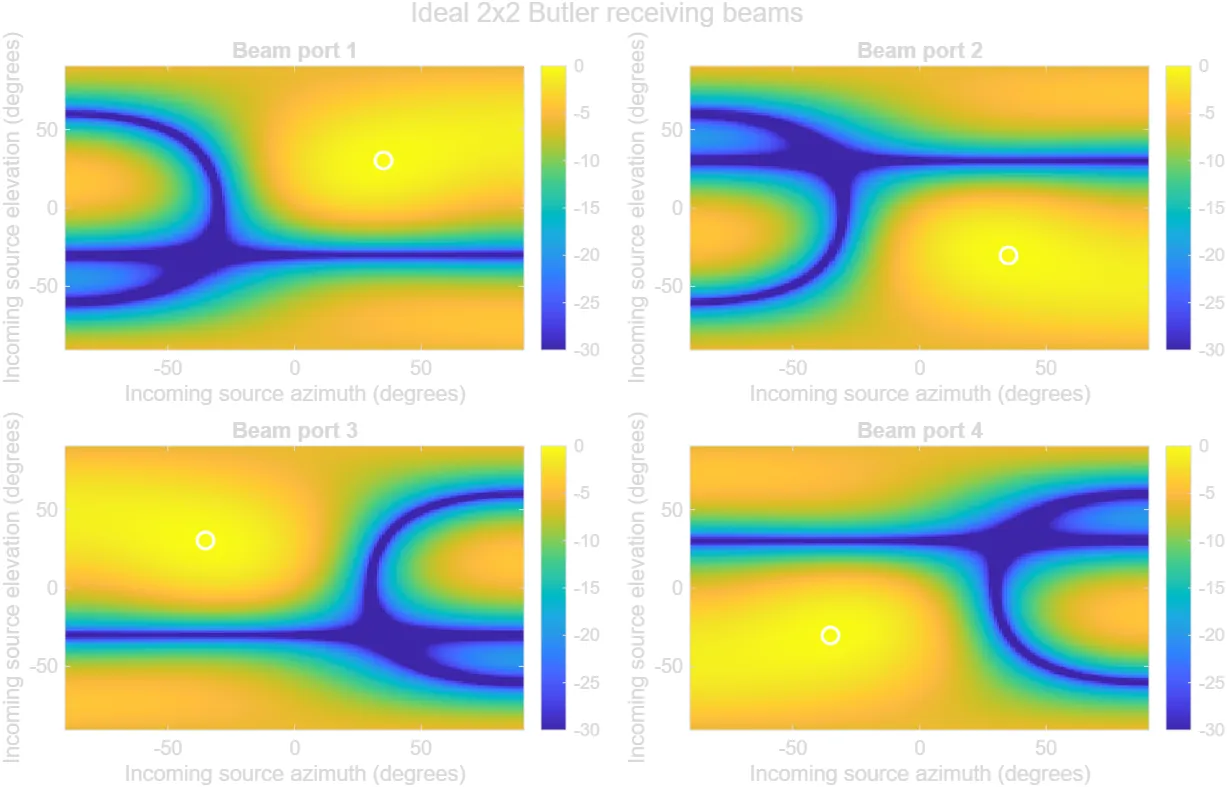
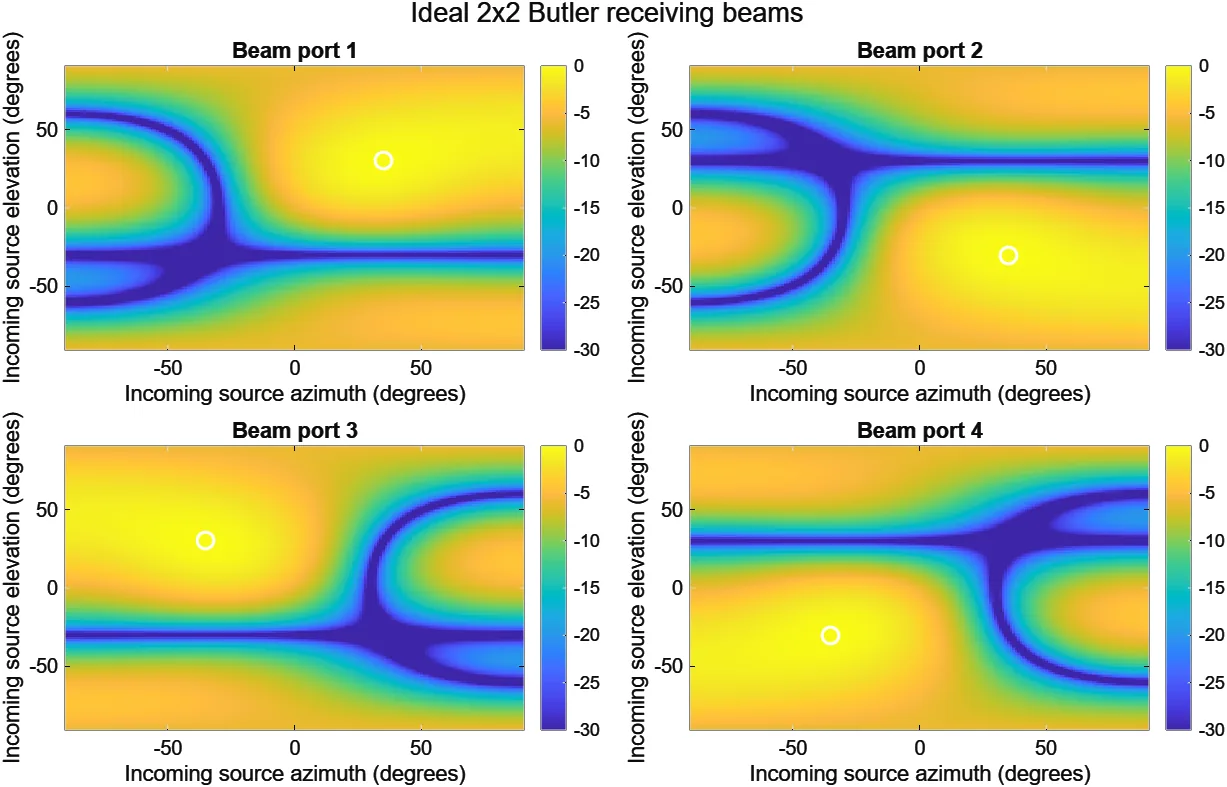
Redesign review 2 fixes: card links, real Parity numbers, honest roles
- Web design cards: the picture and title open the project page; the Flip button still turns the card.
  Keyboard focus turns a card at once, so focus never sits on the hidden face.
- Research: the placeholder Parity charts are replaced by the real results so far. The side menu lists all four projects.
- NEXUS: role says I wrote the server (all 147 commits), not the dashboard.
- Detail Theory and Argus Dashboard: "Developer", not "Lead developer".
- endyland hosting: dropped the 30-day uptime stat.
- Butler matrix plot re-exported with dark text.
- Projects tab no longer says "on my own".
- Hints about moving shapes and the live beam hide when motion or 3D is off.
- Argus: last number spans its row; smaller hero image for phones.
- RION gallery: added the phone view of the site.
- README no longer names other addresses on the domain.

diff --git a/research/index.html b/research/index.html
@@ -50,6 +50,8 @@
     <li><a href="#main"><span class="tb-ch" aria-hidden="true">T0</span> Top</a></li>
     <li><a href="#rf-direction-finder"><span class="tb-ch" aria-hidden="true">CH1</span> RF</a></li>
     <li><a href="#parity"><span class="tb-ch" aria-hidden="true">CH2</span> Parity</a></li>
+    <li><a href="#dfw-rent-model"><span class="tb-ch" aria-hidden="true">CH3</span> Rents</a></li>
+    <li><a href="#spending-explorer"><span class="tb-ch" aria-hidden="true">CH4</span> Spending</a></li>
   </ol>
 </nav>
 
@@ -129,21 +131,14 @@
         </div>
       </div>
       <div class="ch-inst">
-        <figure class="inst plot plot-par rv">
-          <svg class="plot-svg" viewBox="0 0 400 200" aria-hidden="true" focusable="false">
-            <line class="gr" x1="44" x2="388" y1="16.0" y2="16.0"/><line class="gr" x1="44" x2="388" y1="57.0" y2="57.0"/><line class="gr" x1="44" x2="388" y1="98.0" y2="98.0"/><line class="gr" x1="44" x2="388" y1="139.0" y2="139.0"/><line class="gr" x1="44" x2="388" y1="180.0" y2="180.0"/><line class="gr" x1="44.0" x2="44.0" y1="16" y2="180"/><line class="gr" x1="101.3" x2="101.3" y1="16" y2="180"/><line class="gr" x1="158.7" x2="158.7" y1="16" y2="180"/><line class="gr" x1="216.0" x2="216.0" y1="16" y2="180"/><line class="gr" x1="273.3" x2="273.3" y1="16" y2="180"/><line class="gr" x1="330.7" x2="330.7" y1="16" y2="180"/><line class="gr" x1="388.0" x2="388.0" y1="16" y2="180"/>
-            <path class="tr tr-b" pathLength="1" d="M44.0 156.8L46.9 153.2L49.7 149.8L52.6 146.7L55.5 144.1L58.3 142.0L61.2 140.5L64.1 139.6L66.9 139.3L69.8 139.6L72.7 140.4L75.5 141.7L78.4 143.3L81.3 145.1L84.1 147.1L87.0 149.1L89.9 150.9L92.7 152.6L95.6 153.9L98.5 155.0L101.3 155.6L104.2 155.8L107.1 155.6L109.9 155.0L112.8 154.2L115.7 153.1L118.5 151.9L121.4 150.6L124.3 149.5L127.1 148.4L130.0 147.6L132.9 147.1L135.7 146.9L138.6 147.1L141.5 147.6L144.3 148.4L147.2 149.5L150.1 150.7L152.9 152.0L155.8 153.2L158.7 154.3L161.5 155.2L164.4 155.6L167.3 155.7L170.1 155.2L173.0 154.1L175.9 152.4L178.7 150.2L181.6 147.3L184.5 144.0L187.3 140.3L190.2 136.3L193.1 132.1L195.9 127.8L198.8 123.5L201.7 119.5L204.5 115.6L207.4 112.2L210.3 109.1L213.1 106.6L216.0 104.5L218.9 102.8L221.7 101.6L224.6 100.7L227.5 100.1L230.3 99.8L233.2 99.5L236.1 99.2L238.9 98.8L241.8 98.2L244.7 97.4L247.5 96.3L250.4 94.8L253.3 93.1L256.1 91.1L259.0 88.8L261.9 86.5L264.7 84.0L267.6 81.6L270.5 79.3L273.3 77.3L276.2 75.6L279.1 74.4L281.9 73.6L284.8 73.4L287.7 73.8L290.5 74.7L293.4 76.1L296.3 77.9L299.1 80.1L302.0 82.5L304.9 85.1L307.7 87.7L310.6 90.2L313.5 92.5L316.3 94.4L319.2 95.9L322.1 96.9L324.9 97.4L327.8 97.4L330.7 96.8L333.5 95.8L336.4 94.3L339.3 92.6L342.1 90.5L345.0 88.4L347.9 86.2L350.7 84.1L353.6 82.1L356.5 80.4L359.3 78.9L362.2 77.8L365.1 76.9L367.9 76.3L370.8 76.0L373.7 75.8L376.5 75.8L379.4 75.7L382.3 75.5L385.1 75.0L388.0 74.3"/>
-            <path class="tr tr-a" pathLength="1" d="M44.0 172.0L46.9 164.2L49.7 157.0L52.6 150.7L55.5 145.8L58.3 142.4L61.2 140.6L64.1 140.3L66.9 141.1L69.8 142.7L72.7 144.7L75.5 146.6L78.4 148.0L81.3 148.8L84.1 148.7L87.0 147.9L89.9 146.5L92.7 144.7L95.6 143.0L98.5 141.8L101.3 141.5L104.2 142.3L107.1 144.4L109.9 147.7L112.8 152.2L115.7 157.5L118.5 163.1L121.4 168.6L124.3 173.5L127.1 177.2L130.0 179.5L132.9 180.0L135.7 178.8L138.6 175.9L141.5 171.6L144.3 166.4L147.2 160.6L150.1 154.7L152.9 149.3L155.8 144.5L158.7 140.7L161.5 137.8L164.4 135.7L167.3 134.3L170.1 133.1L173.0 131.8L175.9 130.0L178.7 127.4L181.6 123.8L184.5 119.1L187.3 113.5L190.2 107.2L193.1 100.6L195.9 94.1L198.8 88.3L201.7 83.6L204.5 80.3L207.4 78.7L210.3 78.8L213.1 80.6L216.0 83.8L218.9 88.0L221.7 92.7L224.6 97.4L227.5 101.6L230.3 104.9L233.2 107.1L236.1 108.1L238.9 107.8L241.8 106.5L244.7 104.6L247.5 102.4L250.4 100.2L253.3 98.5L256.1 97.5L259.0 97.3L261.9 98.0L264.7 99.2L267.6 100.8L270.5 102.3L273.3 103.3L276.2 103.3L279.1 102.0L281.9 99.1L284.8 94.6L287.7 88.6L290.5 81.3L293.4 73.1L296.3 64.4L299.1 55.9L302.0 48.0L304.9 41.1L307.7 35.7L310.6 31.7L313.5 29.2L316.3 28.1L319.2 28.0L322.1 28.6L324.9 29.4L327.8 30.0L330.7 30.1L333.5 29.4L336.4 28.0L339.3 25.9L342.1 23.3L345.0 20.7L347.9 18.3L350.7 16.6L353.6 16.0L356.5 16.7L359.3 18.7L362.2 22.2L365.1 26.8L367.9 32.1L370.8 37.8L373.7 43.2L376.5 48.0L379.4 51.5L382.3 53.6L385.1 54.0L388.0 52.7"/>
-            <g class="cur"><line x1="0" x2="0" y1="16" y2="180"/><text class="cur-t" x="0" y="12">t 0</text></g>
-          </svg>
-          <figcaption><span class="key key-a">Strategy</span> <span class="key key-b">S&amp;P 500, held</span> Placeholder curves, not results.</figcaption>
-        </figure>
-        <figure class="inst plot plot-bars rv">
-          <svg class="plot-svg" viewBox="0 0 400 120" aria-hidden="true" focusable="false">
-            <line class="gr" x1="44" x2="388" y1="60" y2="60"/>
-            <rect class="bar up" x="46.0" y="44.0" width="10.3" height="16.0" style="--i:0"/><rect class="bar up" x="60.3" y="37.0" width="10.3" height="23.0" style="--i:1"/><rect class="bar up" x="74.7" y="53.9" width="10.3" height="6.1" style="--i:2"/><rect class="bar dn" x="89.0" y="60.0" width="10.3" height="8.6" style="--i:3"/><rect class="bar up" x="103.3" y="23.9" width="10.3" height="36.1" style="--i:4"/><rect class="bar up" x="117.7" y="52.2" width="10.3" height="7.8" style="--i:5"/><rect class="bar dn" x="132.0" y="60.0" width="10.3" height="22.8" style="--i:6"/><rect class="bar dn" x="146.3" y="60.0" width="10.3" height="26.1" style="--i:7"/><rect class="bar up" x="160.7" y="45.1" width="10.3" height="14.9" style="--i:8"/><rect class="bar dn" x="175.0" y="60.0" width="10.3" height="17.9" style="--i:9"/><rect class="bar dn" x="189.3" y="60.0" width="10.3" height="22.3" style="--i:10"/><rect class="bar up" x="203.7" y="55.1" width="10.3" height="4.9" style="--i:11"/><rect class="bar up" x="218.0" y="19.5" width="10.3" height="40.5" style="--i:12"/><rect class="bar dn" x="232.3" y="60.0" width="10.3" height="2.1" style="--i:13"/><rect class="bar dn" x="246.7" y="60.0" width="10.3" height="1.0" style="--i:14"/><rect class="bar up" x="261.0" y="42.2" width="10.3" height="17.8" style="--i:15"/><rect class="bar up" x="275.3" y="42.4" width="10.3" height="17.6" style="--i:16"/><rect class="bar dn" x="289.7" y="60.0" width="10.3" height="36.5" style="--i:17"/><rect class="bar dn" x="304.0" y="60.0" width="10.3" height="20.0" style="--i:18"/><rect class="bar up" x="318.3" y="55.6" width="10.3" height="4.4" style="--i:19"/><rect class="bar dn" x="332.7" y="60.0" width="10.3" height="1.0" style="--i:20"/><rect class="bar dn" x="347.0" y="60.0" width="10.3" height="27.9" style="--i:21"/><rect class="bar up" x="361.3" y="44.4" width="10.3" height="15.6" style="--i:22"/><rect class="bar up" x="375.7" y="25.7" width="10.3" height="34.3" style="--i:23"/>
-          </svg>
-          <figcaption>Monthly gap between the two. Placeholder.</figcaption>
+        <figure class="inst readout rv">
+          <dl class="ro-list">
+            <div><dt>Strategies tested</dt><dd>3</dd></div>
+            <div class="ro-zero"><dt>Beat the S&amp;P 500</dt><dd>0 so far</dd></div>
+            <div><dt>Algorithms in the catalog</dt><dd>72</dd></div>
+            <div><dt>Data sources</dt><dd>36</dd></div>
+          </dl>
+          <figcaption>Results so far. Each strategy is scored against simply holding the S&amp;P 500.</figcaption>
         </figure>
       </div>
     </div>

diff --git a/web-design/index.html b/web-design/index.html
@@ -46,7 +46,7 @@
 <section class="intro" aria-labelledby="page-h">
   <p class="kicker">Tab 01</p>
   <h1 id="page-h">Web design</h1>
-  <p class="lede">Sites and apps I designed and built. <span class="hint-fine">Grab a shape and throw it.</span><span class="hint-touch">Tap a shape to bounce it.</span></p>
+  <p class="lede">Sites and apps I designed and built. <span class="hint-fine live-only">Grab a shape and throw it.</span><span class="hint-touch live-only">Tap a shape to bounce it.</span></p>
 </section>
 
 <div class="ribbons" aria-hidden="true"><div class="ribbon ribbon-a"></div><div class="ribbon ribbon-b"></div></div>
@@ -56,8 +56,8 @@
     <div class="card">
       <div class="flip">
         <div class="face face-front">
-          <div class="frame"><img class="item-img" src="/web-design/yotummy/img/thumb.webp" width="800" height="450" alt="The YoTummy home page: a food photo hero with a search box and category chips." loading="lazy" decoding="async"></div>
-          <h2 id="yotummy-h">YoTummy</h2>
+          <a class="frame front-img" href="/web-design/yotummy/" tabindex="-1"><img class="item-img" src="/web-design/yotummy/img/thumb.webp" width="800" height="450" alt="The YoTummy home page: a food photo hero with a search box and category chips." loading="lazy" decoding="async"></a>
+          <h2 id="yotummy-h"><a class="front-title" href="/web-design/yotummy/">YoTummy</a></h2>
         </div>
         <div class="face face-back">
         <p>A marketplace for homemade food from local cooks, with a website, seller portal, admin panel and phone app.</p>
@@ -75,8 +75,8 @@
     <div class="card">
       <div class="flip">
         <div class="face face-front">
-          <div class="frame"><img class="item-img" src="/web-design/new-door/img/thumb.webp" width="800" height="450" alt="The New Door home page: a glass building at twilight under the headline Discover High-Performance Real Estate Investments." loading="lazy" decoding="async"></div>
-          <h2 id="new-door-h">New Door Investments</h2>
+          <a class="frame front-img" href="/web-design/new-door/" tabindex="-1"><img class="item-img" src="/web-design/new-door/img/thumb.webp" width="800" height="450" alt="The New Door home page: a glass building at twilight under the headline Discover High-Performance Real Estate Investments." loading="lazy" decoding="async"></a>
+          <h2 id="new-door-h"><a class="front-title" href="/web-design/new-door/">New Door Investments</a></h2>
         </div>
         <div class="face face-back">
         <p>Website and tools for a Texas land and real estate investment firm.</p>
@@ -95,12 +95,12 @@
     <div class="card">
       <div class="flip">
         <div class="face face-front">
-          <div class="frame"><img class="item-img" src="/web-design/detail-theory/img/thumb.webp" width="800" height="450" alt="The Detail Theory home page: a glossy car under the headline We Come To You." loading="lazy" decoding="async"></div>
-          <h2 id="detail-theory-h">Detail Theory</h2>
+          <a class="frame front-img" href="/web-design/detail-theory/" tabindex="-1"><img class="item-img" src="/web-design/detail-theory/img/thumb.webp" width="800" height="450" alt="The Detail Theory home page: a glossy car under the headline We Come To You." loading="lazy" decoding="async"></a>
+          <h2 id="detail-theory-h"><a class="front-title" href="/web-design/detail-theory/">Detail Theory</a></h2>
         </div>
         <div class="face face-back">
         <p>Website and online booking for a premium mobile car detailer in Dallas-Fort Worth.</p>
-        <p class="item-role">Lead developer. About two thirds of the commits.</p>
+        <p class="item-role">Developer. About two thirds of the commits.</p>
         <ul class="item-links">
         <li><a class="link-more" href="/web-design/detail-theory/">See the project</a></li>
         <li><a class="link-site" href="https://detail-theory.com" rel="noopener">detail-theory.com</a></li>
@@ -114,8 +114,8 @@
     <div class="card">
       <div class="flip">
         <div class="face face-front">
-          <div class="frame"><img class="item-img" src="/web-design/swadesi-mangoes/img/thumb.webp" width="800" height="450" alt="The Swadesi Mangoes store: a logo, an orange menu, a green banner and a photo of ripe mangoes." loading="lazy" decoding="async"></div>
-          <h2 id="swadesi-mangoes-h">Swadesi Mangoes</h2>
+          <a class="frame front-img" href="/web-design/swadesi-mangoes/" tabindex="-1"><img class="item-img" src="/web-design/swadesi-mangoes/img/thumb.webp" width="800" height="450" alt="The Swadesi Mangoes store: a logo, an orange menu, a green banner and a photo of ripe mangoes." loading="lazy" decoding="async"></a>
+          <h2 id="swadesi-mangoes-h"><a class="front-title" href="/web-design/swadesi-mangoes/">Swadesi Mangoes</a></h2>
         </div>
         <div class="face face-back">
         <p>A mango shop&#8217;s storefront, rebuilt in Next.js with Shopify behind it.</p>
@@ -133,8 +133,8 @@
     <div class="card">
       <div class="flip">
         <div class="face face-front">
-          <div class="frame"><img class="item-img" src="/web-design/rion-website/img/thumb.webp" width="800" height="450" alt="The RION Solutions home page: a dark starfield with a red glow behind the headline." loading="lazy" decoding="async"></div>
-          <h2 id="rion-website-h">RION Solutions website</h2>
+          <a class="frame front-img" href="/web-design/rion-website/" tabindex="-1"><img class="item-img" src="/web-design/rion-website/img/thumb.webp" width="800" height="450" alt="The RION Solutions home page: a dark starfield with a red glow behind the headline." loading="lazy" decoding="async"></a>
+          <h2 id="rion-website-h"><a class="front-title" href="/web-design/rion-website/">RION Solutions website</a></h2>
         </div>
         <div class="face face-back">
         <p>A rebuild of the RION Solutions website in Next.js.</p>
@@ -152,8 +152,8 @@
     <div class="card">
       <div class="flip">
         <div class="face face-front">
-          <div class="frame"><img class="item-img" src="/web-design/endyland/img/thumb.webp" width="800" height="450" alt="The endyland.com home page with the antenna beam drawn in 3D." loading="lazy" decoding="async"></div>
-          <h2 id="endyland-h">endyland.com</h2>
+          <a class="frame front-img" href="/web-design/endyland/" tabindex="-1"><img class="item-img" src="/web-design/endyland/img/thumb.webp" width="800" height="450" alt="The endyland.com home page with the antenna beam drawn in 3D." loading="lazy" decoding="async"></a>
+          <h2 id="endyland-h"><a class="front-title" href="/web-design/endyland/">endyland.com</a></h2>
         </div>
         <div class="face face-back">
         <p>This portfolio. A home page and five tabs, each with its own look, and a live 3D antenna beam.</p>

diff --git a/startup-work/nexus-command-center/index.html b/startup-work/nexus-command-center/index.html
@@ -51,7 +51,7 @@
     <p class="proj-kicker">RION sub-project</p>
     <h1>NEXUS Command Center</h1>
     <p class="proj-summary">An admin dashboard for RION&#8217;s Stripe payments, and the server behind it.</p>
-    <dl class="proj-meta"><div><dt>Role</dt><dd>Wrote the server and the dashboard.</dd></div><div><dt>Dates</dt><dd>Dec 2025 to Feb 2026</dd></div><div class="meta-stack"><dt>Stack</dt><dd><ul class="proj-stack"><li>Node</li><li>Express</li><li>Postgres</li><li>Stripe</li></ul></dd></div></dl>
+    <dl class="proj-meta"><div><dt>Role</dt><dd>Wrote the server. All 147 of its commits are mine.</dd></div><div><dt>Dates</dt><dd>Dec 2025 to Feb 2026</dd></div><div class="meta-stack"><dt>Stack</dt><dd><ul class="proj-stack"><li>Node</li><li>Express</li><li>Postgres</li><li>Stripe</li></ul></dd></div></dl>
     <ul class="proj-links"><li><span class="badge-private"><svg viewBox="0 0 16 16" aria-hidden="true" focusable="false"><path fill="currentColor" d="M4 7V5a4 4 0 1 1 8 0v2h1v8H3V7h1zm2 0h4V5a2 2 0 1 0-4 0v2z"/></svg>Private repo</span></li></ul>
     </div>
     <figure class="proj-hero-media"><div class="flow"><img src="img/figure.svg" width="800" height="450" alt="Diagram: Stripe payments flow into a Node and Postgres server, which feeds the admin dashboard." fetchpriority="high" decoding="async"><svg class="packets" viewBox="0 0 800 450" aria-hidden="true" focusable="false"><rect class="hb hb1" x="40" y="170" width="190" height="110" rx="6"/><rect class="hb hb2" x="300" y="170" width="200" height="110" rx="6"/><rect class="hb hb3" x="570" y="170" width="190" height="110" rx="6"/><circle class="pk pk1" cx="234" cy="225" r="5"/><circle class="pk pk2" cx="504" cy="225" r="5"/><circle class="pk pk1 late" cx="234" cy="225" r="4"/><circle class="pk pk2 late" cx="504" cy="225" r="4"/></svg></div><figcaption>How the pieces fit. Both live links are offline now.<span class="credit">Diagram drawn for this site.</span></figcaption></figure>
@@ -66,8 +66,8 @@
   <section class="proj-section proj-did" aria-labelledby="did-h">
     <h2 id="did-h">What I did</h2>
     <ul class="did-list">
-      <li>Built an admin dashboard for RION&#8217;s Stripe payments system.</li>
-      <li>Wrote the server behind it. All 147 of its commits are mine.</li>
+      <li>Wrote the server behind an admin dashboard for RION&#8217;s Stripe payments system.</li>
+      <li>All 147 server commits are mine. The dashboard itself has 94 commits.</li>
     </ul>
   </section>
 

diff --git a/research/style.css b/research/style.css
@@ -84,11 +84,11 @@ html.rs-anim .cue::after{animation:drip 2.2s ease-in-out 2s infinite;transform-o
 .timebase{display:none}
 @media (min-width:1100px){
   .timebase{display:flex;gap:12px;position:fixed;right:18px;top:50%;z-index:40;transform:translateY(-50%);font-size:12px}
-  .tb-rail{position:relative;width:2px;height:150px;background:var(--line)}
+  .tb-rail{position:relative;width:2px;height:200px;background:var(--line)}
   /* The mark is as tall as the rail, so translateY(0..100%) walks its dot from top to bottom. */
-  .tb-mark{position:absolute;left:-4px;top:-5px;width:10px;height:150px;transition:transform .15s linear}
+  .tb-mark{position:absolute;left:-4px;top:-5px;width:10px;height:200px;transition:transform .15s linear}
   .tb-mark::before{content:"";position:absolute;left:0;top:0;width:10px;height:10px;background:var(--amber);box-shadow:0 0 10px var(--amber)}
-  .timebase ol{list-style:none;margin:-9px 0;padding:0;display:flex;flex-direction:column;justify-content:space-between;height:168px}
+  .timebase ol{list-style:none;margin:-9px 0;padding:0;display:flex;flex-direction:column;justify-content:space-between;height:218px}
   .timebase a{display:block;padding:2px 6px;color:var(--mute);text-decoration:none;background:rgba(5,7,5,.85)}
   .timebase a:hover,.timebase a.on{color:var(--ink)}
   .timebase a.on .tb-ch{color:var(--amber)}
@@ -236,3 +236,9 @@ html.rs-anim .plot.is-in .bar{transition:transform .5s cubic-bezier(.2,.9,.3,1.3
 @media (prefers-reduced-motion:reduce){
   .scene,.polar,.ch::before,.ch::after,.plot-svg .cur{transition:none}
 }
+/* Parity readout: the real results so far, as instrument numbers. */
+.readout .ro-list{display:grid;grid-template-columns:1fr 1fr;gap:1px;margin:0;background:var(--line);border:1px solid var(--line)}
+.readout .ro-list div{padding:14px 14px 12px;background:var(--bg)}
+.readout dt{font-size:12px;letter-spacing:.08em;text-transform:uppercase;color:var(--mute)}
+.readout dd{margin:6px 0 0;font-size:clamp(26px,3vw,36px);line-height:1.1;font-weight:700;color:var(--phosphor);font-variant-numeric:tabular-nums}
+.readout .ro-zero dd{color:var(--amber)}

diff --git a/startup-work/argus/index.html b/startup-work/argus/index.html
@@ -53,7 +53,7 @@
     <dl class="proj-meta"><div><dt>Role</dt><dd>Cofounder and lead engineer. Product strategy, pricing and delivery.</dd></div><div><dt>Dates</dt><dd>2025 to now</dd></div><div><dt>Company</dt><dd>Argus AI (Argus Vision, Inc.), Plano, TX</dd></div><div class="meta-stack"><dt>Stack</dt><dd><ul class="proj-stack"><li>Python</li><li>PyTorch</li><li>YOLOv8</li><li>EVA-CLIP</li><li>OpenCV</li><li>TensorFlow</li><li>FastAPI</li><li>AWS Lambda</li><li>Node and Express</li><li>Postgres</li><li>Clerk</li><li>Stripe</li><li>Next.js</li><li>Cloudflare Pages</li></ul></dd></div></dl>
     <ul class="proj-links"><li><a href="https://useargus.co" rel="noopener">useargus.co</a></li><li><a href="https://docs.useargus.co" rel="noopener">Docs</a></li><li><span class="badge-private"><svg viewBox="0 0 16 16" aria-hidden="true" focusable="false"><path fill="currentColor" d="M4 7V5a4 4 0 1 1 8 0v2h1v8H3V7h1zm2 0h4V5a2 2 0 1 0-4 0v2z"/></svg>Private repo</span></li></ul>
     </div>
-    <figure class="proj-hero-media a-tilt"><div class="a-tilt-in"><img src="img/hero.webp" width="1440" height="796" alt="The Argus home page: Run your whole store from one place, with a tilted dashboard." fetchpriority="high" decoding="async"><span class="a-glare" aria-hidden="true"></span></div></figure>
+    <figure class="proj-hero-media a-tilt"><div class="a-tilt-in"><img src="img/hero.webp" srcset="img/hero-720.webp 720w, img/hero.webp 1440w" sizes="(min-width:960px) 55vw, 100vw" width="1440" height="796" alt="The Argus home page: Run your whole store from one place, with a tilted dashboard." fetchpriority="high" decoding="async"><span class="a-glare" aria-hidden="true"></span></div></figure>
   </header>
 
   <section class="proj-section proj-numbers" aria-labelledby="numbers-h">

diff --git a/startup-work/argus-dashboard/index.html b/startup-work/argus-dashboard/index.html
@@ -61,7 +61,7 @@
     <p class="proj-kicker">Argus sub-project</p>
     <h1>Argus Dashboard</h1>
     <p class="proj-summary">One screen for running a store: loss prevention, stock, money and staff.</p>
-    <dl class="proj-meta"><div><dt>Role</dt><dd>Lead developer. About 70% of the code.</dd></div><div><dt>Dates</dt><dd>Jan 2026 to now</dd></div><div class="meta-stack"><dt>Stack</dt><dd><ul class="proj-stack"><li>JavaScript</li><li>Node and Express</li><li>Postgres on Hetzner</li><li>Clerk</li><li>Stripe</li><li>Cloudflare Pages</li></ul></dd></div></dl>
+    <dl class="proj-meta"><div><dt>Role</dt><dd>Developer. About 70% of the code.</dd></div><div><dt>Dates</dt><dd>Jan 2026 to now</dd></div><div class="meta-stack"><dt>Stack</dt><dd><ul class="proj-stack"><li>JavaScript</li><li>Node and Express</li><li>Postgres on Hetzner</li><li>Clerk</li><li>Stripe</li><li>Cloudflare Pages</li></ul></dd></div></dl>
     <ul class="proj-links"><li><a href="https://portal.rionsolution.com" rel="noopener">Store portal</a></li><li><span class="badge-private"><svg viewBox="0 0 16 16" aria-hidden="true" focusable="false"><path fill="currentColor" d="M4 7V5a4 4 0 1 1 8 0v2h1v8H3V7h1zm2 0h4V5a2 2 0 1 0-4 0v2z"/></svg>Private repo</span></li></ul>
     </div>
     <figure class="proj-hero-media a-tilt"><div class="a-tilt-in"><img src="img/dashboard.webp" width="1215" height="830" alt="The Argus dashboard: Good morning, Maria, with 96.4% paid for, alerts, invoices and sales by hour." fetchpriority="high" decoding="async"><span class="a-glare" aria-hidden="true"></span></div><figcaption>The dashboard as shown on useargus.co, with sample data.</figcaption></figure>

diff --git a/index.html b/index.html
@@ -50,14 +50,14 @@
       <li><a href="https://github.com/abasheer-rion" rel="noopener">GitHub</a></li>
       <li><a href="https://www.linkedin.com/in/ayanbasheer" rel="noopener">LinkedIn</a></li>
     </ul>
-    <p class="caption">That shape is the beam of a 6 by 6 antenna array, drawn live. Move your pointer and it steers toward you.</p>
+    <p class="caption">That shape is the beam of a 6 by 6 antenna array.<span class="live-only"> It is drawn live. Move your pointer and it steers toward you.</span></p>
     <a class="cue" href="#rooms"><span>Scroll</span></a>
   </section>
 
   <section class="stop stop-rooms" id="rooms" data-stop="1" aria-labelledby="rooms-h">
     <p class="tag">Stop 01 / Five rooms</p>
     <h2 id="rooms-h">Pick a room</h2>
-    <p class="hint">Each one looks and moves differently. Hover or focus one and the beam swings toward it.</p>
+    <p class="hint">Each one looks and moves differently.<span class="live-only"> Hover or focus one and the beam swings toward it.</span></p>
     <ul class="portals">
       <li class="portal portal-web-design tilt-wrap reveal" data-steer="-.55,.35">
         <a class="tilt" href="/web-design/">
@@ -87,7 +87,7 @@
         <a class="tilt" href="/projects/">
           <span class="portal-num" aria-hidden="true">04</span>
           <span class="portal-name">Projects</span>
-          <span class="portal-text">Hardware and tools I built on my own.</span>
+          <span class="portal-text">Hardware and tools I built.</span>
           <span class="portal-count">6 projects</span>
         </a>
       </li>

diff --git a/web-design/detail-theory/index.html b/web-design/detail-theory/index.html
@@ -47,7 +47,7 @@
     <p class="proj-kicker">Client site and booking</p>
     <h1><span class="dt-gloss">Detail Theory</span></h1>
     <p class="proj-summary">Website and online booking for a premium mobile car detailer in Dallas-Fort Worth.</p>
-    <dl class="proj-meta"><div><dt>Role</dt><dd>Lead developer. About two thirds of the commits.</dd></div><div><dt>Dates</dt><dd>May to Oct 2026</dd></div><div><dt>Client</dt><dd>Detail Theory</dd></div><div class="meta-stack"><dt>Stack</dt><dd><ul class="proj-stack"><li>HTML</li><li>CSS</li><li>JavaScript</li><li>Google Apps Script</li><li>Google Places</li><li>Cloudflare Pages</li></ul></dd></div></dl>
+    <dl class="proj-meta"><div><dt>Role</dt><dd>Developer. About two thirds of the commits.</dd></div><div><dt>Dates</dt><dd>May to Oct 2026</dd></div><div><dt>Client</dt><dd>Detail Theory</dd></div><div class="meta-stack"><dt>Stack</dt><dd><ul class="proj-stack"><li>HTML</li><li>CSS</li><li>JavaScript</li><li>Google Apps Script</li><li>Google Places</li><li>Cloudflare Pages</li></ul></dd></div></dl>
     <ul class="proj-links"><li><a href="https://detail-theory.com" rel="noopener">detail-theory.com</a></li><li><span class="badge-private"><svg viewBox="0 0 16 16" aria-hidden="true" focusable="false"><path fill="currentColor" d="M4 7V5a4 4 0 1 1 8 0v2h1v8H3V7h1zm2 0h4V5a2 2 0 1 0-4 0v2z"/></svg>Private repo</span></li></ul>
     </div>
     <figure class="proj-hero-media dt-media">

diff --git a/projects/endyland-infra/index.html b/projects/endyland-infra/index.html
@@ -61,8 +61,8 @@
       <p class="stage-hud"><span>Rack 01</span><span class="stage-check">Checking</span></p>
     </div>
     <div class="numbers-side">
-    <ul class="stats"><li class="stat"><b>5 min</b><span>between health checks</span></li><li class="stat"><b><span class="visually-hidden">100%</span><span aria-hidden="true" data-count="100" data-post="%">100%</span></b><span>portfolio uptime over 30 days</span></li></ul>
-    <div class="uptime" aria-hidden="true"><p class="uptime-k"><span>30 days ago</span><span>Today</span></p><ol class="uptime-bar"><li></li><li></li><li></li><li></li><li></li><li></li><li></li><li></li><li></li><li></li><li></li><li></li><li></li><li></li><li></li><li></li><li></li><li></li><li></li><li></li><li></li><li></li><li></li><li></li><li></li><li></li><li></li><li></li><li></li><li></li></ol></div>
+    <ul class="stats"><li class="stat"><b>5 min</b><span>between health checks</span></li></ul>
+    <div class="uptime" aria-hidden="true"><p class="uptime-k"><span>One square per health check</span><span>Latest</span></p><ol class="uptime-bar"><li></li><li></li><li></li><li></li><li></li><li></li><li></li><li></li><li></li><li></li><li></li><li></li><li></li><li></li><li></li><li></li><li></li><li></li><li></li><li></li><li></li><li></li><li></li><li></li><li></li><li></li><li></li><li></li><li></li><li></li></ol></div>
     </div>
     </div>
   </section>

diff --git a/web-design/main.js b/web-design/main.js
@@ -137,9 +137,15 @@ for (const item of items) {
 
   toBack.addEventListener('click', (e) => { e.stopPropagation(); setFlip(item, true); toFront.focus({ preventScroll: true }); });
   toFront.addEventListener('click', (e) => { e.stopPropagation(); setFlip(item, false); toBack.focus({ preventScroll: true }); });
-  // Keyboard: tabbing into a face turns that face to the front.
-  front.addEventListener('focusin', () => setFlip(item, false));
-  back.addEventListener('focusin', () => setFlip(item, true));
+  // Keyboard: tabbing into a face turns that face to the front, at once, so focus is never on the hidden face.
+  const snapTo = (to) => {
+    if (item.classList.contains('flipped') === to) return;
+    item.classList.add('snap');
+    setFlip(item, to);
+    requestAnimationFrame(() => requestAnimationFrame(() => item.classList.remove('snap')));
+  };
+  front.addEventListener('focusin', (e) => { if (e.target.matches(':focus-visible')) snapTo(false); else setFlip(item, false); });
+  back.addEventListener('focusin', (e) => { if (e.target.matches(':focus-visible')) snapTo(true); else setFlip(item, true); });
   // Click or tap anywhere else on a card to turn it over. Not while selecting text.
   const tapFlip = (to) => (e) => {
     if (e.target.closest('a,button,.badge-private')) return;

diff --git a/projects/endyland-infra/style.css b/projects/endyland-infra/style.css
@@ -1,7 +1,7 @@
 /* endyland hosting and status page project page. Only this page loads this file.
    Theme: Projects tab, in a server room. Brief: docs/themes/tab-projects.md (not deployed).
    Shared layout: /shared/project.css. Arcade parts: /projects/project-theme.css.
-   The look: a voxel server rack that sends a health check out on a timer, 30 green days of uptime
+   The look: a voxel server rack that sends a health check out on a timer, a strip of green health checks
    like the status page, and "What I did" as a list of services that are all up. */
 :root{
   --p-bg:#100C03; --p-surface:#221A07; --panel:rgba(16,12,3,.93); --shade:#060401;
@@ -26,7 +26,7 @@ body.proj-page{background-image:
     repeating-linear-gradient(0deg,transparent 0 18px,#1A1408 18px 20px) bottom/100% 30% no-repeat,#0A0702}
 .stage-check{color:var(--pg2)}
 .numbers-side{display:flex;flex-direction:column;justify-content:center;gap:26px}
-.numbers-side .stats{grid-template-columns:repeat(2,minmax(0,1fr));margin:0}
+.numbers-side .stats{grid-template-columns:minmax(0,1fr);margin:0}
 @media (max-width:900px){
   .numbers-grid{grid-template-columns:minmax(0,1fr)}
   .numbers-grid .stage{min-height:0;height:clamp(240px,64vw,340px)}

diff --git a/web-design/style.css b/web-design/style.css
@@ -206,3 +206,12 @@ html.wd-motion .intro::after{animation:nudge 1.8s var(--spring) infinite}
 /* The hint under the title matches the device: grab and throw with a mouse, tap on a touch screen. */
 .hint-touch{display:none}
 @media (hover:none),(pointer:coarse){.hint-fine{display:none}.hint-touch{display:inline}}
+/* The picture and the title on the front open the project page. The Flip button turns the card. */
+a.frame{display:block;color:inherit}
+.front-title{color:inherit;text-decoration:none;background:linear-gradient(currentColor,currentColor) 0 100%/0 3px no-repeat;transition:background-size .3s}
+.front-title:hover,.front-title:focus-visible{background-size:100% 3px}
+a.front-img:hover .item-img{filter:saturate(1.15) brightness(1.03)}
+/* Turned by the keyboard: no slow spin, so focus never sits on a face you cannot see. */
+html.wd-motion .item.snap .flip{transition:none}
+/* The shape hints only make sense when the shapes move. */
+html:not(.wd-motion) .live-only,html.no-webgl .live-only{display:none}
